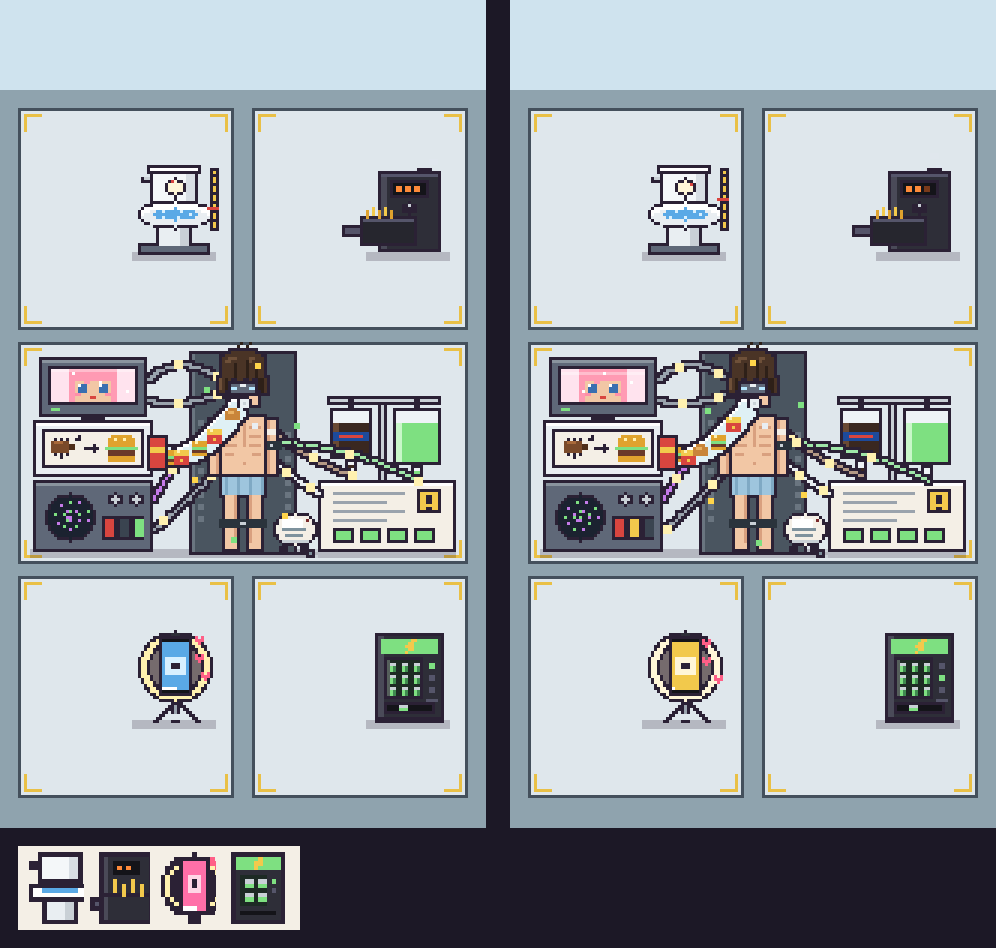
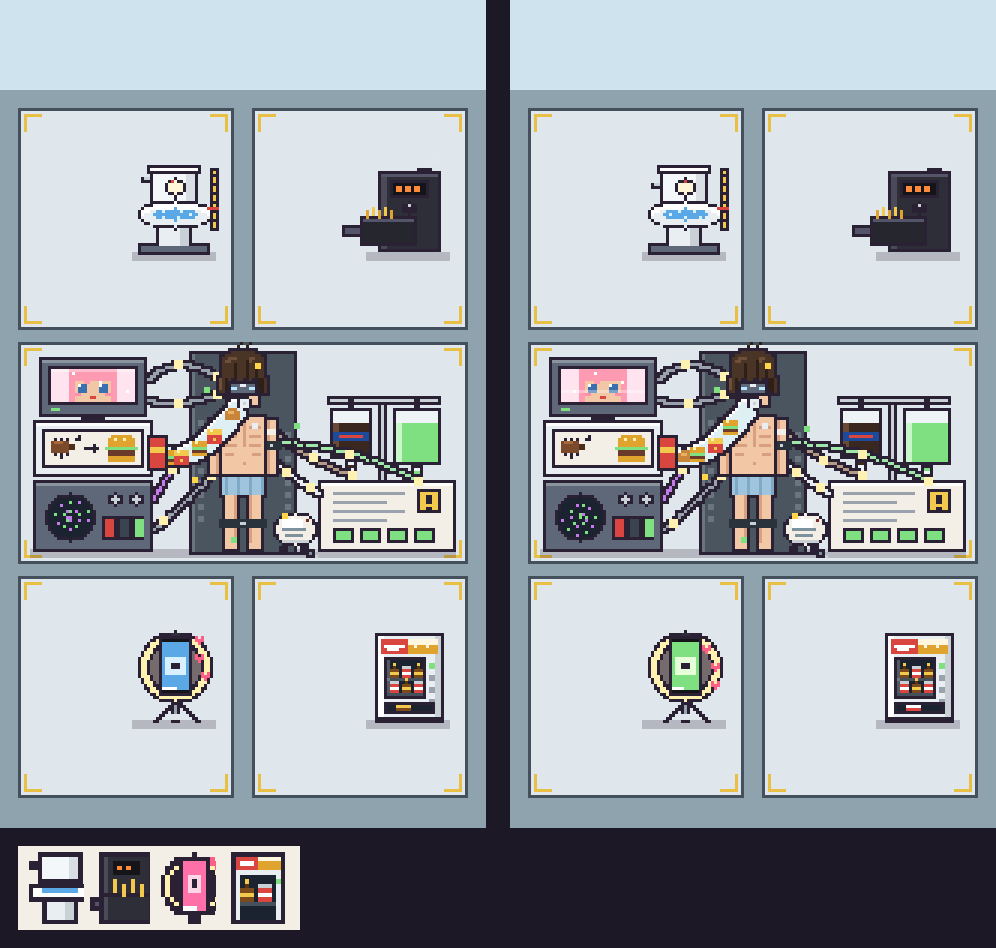
Цех 10: автомат с пивом и колой вместо энергетиков, станки одобрены
Claude-Session: https://claude.ai/code/session_01RvwvQkAzJYbf6wXBsf4mKj

diff --git a/drafts/workshop-10.js b/drafts/workshop-10.js
@@ -2,7 +2,7 @@
 // Цены и скорости станков не выбраны: value: 1 и desc: 'x' — заглушки. Цех 10 — индекс цеха 9.
 // Особенность цеха: в центре Эталон на широком месте (два столбца). Сотрудник ему не нужен,
 // своих скорости и цены нет (0), доход растёт от числа работающих соседей (максимум 4).
-// Статус: Эталон одобрен. Четыре станка вокруг нарисованы и ждут одобрения, сцена цеха ещё не нарисована.
+// Статус: Эталон и четыре станка вокруг него нарисованы и одобрены, сцена цеха ещё не нарисована (будет белой).
 
 // ===== LAYOUTS: после пепси =====
     // a pair on top, the etalon across both columns in the middle (anchored at column 0), a pair below
@@ -19,15 +19,15 @@
     toilet: { loc: 9, name: 'Унитаз', short: 'УНИТАЗ', rate: 0.5, value: 1, max: 1, desc: 'x' },
     airfryer: { loc: 9, name: 'Аэрогриль', short: 'АЭРОГРИЛЬ', rate: 0.5, value: 1, max: 1, desc: 'x' },
     shorts: { loc: 9, name: 'Студия коротких видео', short: 'ШОРТСЫ', rate: 0.8, value: 1, max: 1, desc: 'x' },
-    energy: { loc: 9, name: 'Автомат энергетиков', short: 'ЭНЕРГЕТИКИ', rate: 0.6, value: 1, max: 1, desc: 'x' },
+    drinks: { loc: 9, name: 'Автомат с пивом и колой', short: 'ПИВО-КОЛА', rate: 0.6, value: 1, max: 1, desc: 'x' },
 
-// ===== ICON_DRAW: иконки карт станков 16×16 (ждут одобрения) =====
+// ===== ICON_DRAW: иконки карт станков 16×16 =====
     toilet: (r, d) => { r(3, 0, 10, 7, K); r(4, 1, 8, 5, '#f4f7f9'); r(10, 1, 2, 5, '#d8dee4'); r(1, 2, 2, 2, K); r(1, 7, 14, 4, K); r(2, 8, 12, 2, '#ffffff'); r(4, 8, 8, 1, '#5aa9e6'); r(4, 11, 8, 5, K); r(5, 11, 6, 4, '#e9eef2'); r(9, 11, 2, 4, '#c9d0d6'); r(14, 0, 2, 9, '#f2c94c'); r(14, 4, 2, 1, '#d9453f'); },
     airfryer: (r, d) => { r(2, 0, 12, 16, K); r(3, 1, 10, 14, '#2e2e38'); r(3, 1, 1, 14, '#4a4a58'); r(5, 2, 6, 3, '#141419'); r(6, 3, 1, 1, '#ff8a3a'); r(8, 3, 1, 1, '#ff8a3a'); r(3, 9, 10, 1, K); r(0, 10, 3, 3, K); r(1, 11, 1, 1, '#55556a'); for (let k = 0; k < 4; k++) r(5 + k * 2, 6 + (k % 2), 1, 3, '#f2c94c'); },
     shorts: (r, d) => { d(8, 7, 7, K); d(8, 7, 6, '#fff1b0'); d(8, 7, 5, K); r(5, 1, 7, 13, K); r(6, 2, 5, 11, '#ff6fa8'); r(7, 5, 3, 4, '#ffd6e6'); r(8, 6, 1, 2, K); r(6, 12, 3, 1, '#ffffff'); r(7, 14, 3, 2, K); r(12, 1, 1, 1, '#ff5f87'); r(14, 1, 1, 1, '#ff5f87'); r(12, 2, 3, 1, '#ff5f87'); r(13, 3, 1, 1, '#ff5f87'); },
-    energy: (r, d) => { r(2, 0, 12, 16, K); r(3, 1, 10, 14, '#2e2e38'); r(3, 1, 10, 3, '#7ee081'); r(8, 1, 1, 1, '#f2c94c'); r(7, 2, 2, 1, '#f2c94c'); r(7, 3, 1, 1, '#f2c94c'); r(4, 5, 6, 7, '#1d2a24'); for (let k = 0; k < 2; k++) for (let j = 0; j < 2; j++) { r(5 + k * 3, 6 + j * 3, 2, 2, '#7ee081'); r(5 + k * 3, 6 + j * 3, 2, 1, '#c9d0d6'); } r(11, 6, 1, 1, '#7ee081'); r(11, 8, 1, 1, '#55556a'); r(4, 13, 8, 1, '#141419'); },
+    drinks: (r, d) => { r(2, 0, 12, 16, K); r(3, 1, 10, 14, '#e9eef2'); r(3, 1, 5, 3, '#d9453f'); r(4, 2, 3, 1, '#ffffff'); r(8, 1, 5, 3, '#e0a32e'); r(8, 1, 5, 1, '#fff6e0'); r(4, 5, 8, 8, '#1b2230'); r(5, 7, 1, 1, '#5a3410'); r(5, 6, 1, 1, '#f2c94c'); r(4, 8, 3, 3, '#7a4a1a'); r(4, 9, 3, 1, '#f2c94c'); r(8, 7, 3, 1, '#c9d0d6'); r(8, 8, 3, 3, '#d9453f'); r(8, 9, 3, 1, '#ffffff'); r(4, 11, 8, 1, '#44505c'); r(12, 6, 1, 1, '#7ee081'); r(4, 13, 8, 2, '#1b2230'); },
 
-// ===== machine(): ветки перед 'sew' (ждут одобрения) =====
+// ===== machine(): ветки перед 'sew' =====
     } else if (type === 'toilet') {
       // a toilet on the calibration stand: the flush lever kicks, the water swirls, a gauge and a ruler check the level
       const ell = (ex, ey, rx, ry, col) => { for (let dy = -ry; dy <= ry; dy++) { const w = Math.round(rx * Math.sqrt(1 - (dy / ry) ** 2)); R(ex - w, ey + dy, w * 2 + 1, 1, col); } };
@@ -71,21 +71,24 @@
       R(x + 12, y + 3, 9, 1, '#141419'); R(x + 12, y + 20, 9, 1, '#141419'); R(x + 12, y + 19, Math.round(sw * 9), 1, '#ffffff');
       for (let k = 0; k < 3; k++) { const s = (t * 0.7 + k / 3) % 1, hx = x + 24 + Math.round(Math.sin(s * 6 + k) * 2), hy = y + 18 - Math.round(s * 18); R(hx, hy, 1, 1, '#ff5f87'); R(hx + 2, hy, 1, 1, '#ff5f87'); R(hx, hy + 1, 3, 1, '#ff5f87'); R(hx + 1, hy + 2, 1, 1, '#ff5f87'); }
       R(x + 13, y + 1, 7, 2, K); R(x + 15, y + 1, 3, 1, '#2e2e38');
-    } else if (type === 'energy') {
-      // the energy drink machine: a lit fridge of green cans, a can drops into the tray and the bolt sign buzzes
-      R(x + 5, y + 1, 23, 29, K); R(x + 6, y + 2, 21, 27, '#2e2e38'); R(x + 6, y + 2, 2, 27, '#4a4a58');
-      const buzz = (t % 1.7) < 0.12;
-      R(x + 7, y + 3, 19, 5, buzz ? '#3f8a4f' : '#7ee081');
-      for (const [a, b, w] of [[17, 3, 2], [16, 4, 2], [15, 5, 3], [16, 6, 2], [15, 7, 1]]) R(x + a, y + b, w, 1, buzz ? '#c9a23a' : '#f2c94c');
-      R(x + 8, y + 9, 13, 14, K); R(x + 9, y + 10, 11, 12, '#1d2a24');
-      for (let r = 0; r < 3; r++) for (let k = 0; k < 3; k++) { const cxk = x + 10 + k * 4, cyk = y + 11 + r * 4; R(cxk, cyk, 2, 3, '#3f8a4f'); R(cxk, cyk, 1, 3, '#7ee081'); R(cxk, cyk, 2, 1, '#c9d0d6'); }
-      R(x + 9, y + 10, 1, 12, 'rgba(255,255,255,.25)');
-      for (let k = 0; k < 3; k++) R(x + 23, y + 11 + k * 4, 2, 2, k === Math.floor(t * 3) % 3 ? '#7ee081' : '#55556a');
-      R(x + 22, y + 23, 4, 1, '#55556a');
-      R(x + 8, y + 24, 17, 4, K); R(x + 9, y + 25, 15, 2, '#141419');
-      const dr = (t * 0.7) % 1;
-      if (dr < 0.4) { const cy2 = y + 12 + Math.round(dr / 0.4 * 13); if (cy2 < y + 22) R(x + 14, cy2, 2, 3, '#7ee081'); else { R(x + 13, y + 25, 3, 2, '#7ee081'); R(x + 13, y + 25, 3, 1, '#c9d0d6'); } }
-      else { R(x + 13, y + 25, 3, 2, '#7ee081'); R(x + 13, y + 25, 3, 1, '#c9d0d6'); }
+    } else if (type === 'drinks') {
+      // a fridge of beer and cola: the sign is half cola red, half beer gold with foam, a drink drops into the tray
+      R(x + 5, y + 1, 23, 29, K); R(x + 6, y + 2, 21, 27, '#e9eef2'); R(x + 6, y + 2, 2, 27, '#ffffff'); R(x + 25, y + 2, 2, 27, '#c9d0d6');
+      const buzz = (t % 2.3) < 0.12;
+      R(x + 7, y + 3, 9, 5, buzz ? '#9a3a3a' : '#d9453f'); R(x + 8, y + 5, 7, 1, '#ffffff'); R(x + 9, y + 6, 4, 1, '#ffffff');
+      R(x + 16, y + 3, 10, 5, buzz ? '#a87a2a' : '#e0a32e'); R(x + 16, y + 3, 10, 2, '#fff6e0'); R(x + 18, y + 5, 1, 1, '#fff6e0'); R(x + 22, y + 5, 1, 1, '#fff6e0');
+      R(x + 8, y + 9, 14, 14, K); R(x + 9, y + 10, 12, 12, '#1b2230');
+      // b is the bottom row of the drink: a beer is a brown bottle with a gold label, a cola a red can with a white band
+      const beer = (bx, b) => { R(bx + 1, b - 4, 1, 1, '#f2c94c'); R(bx + 1, b - 3, 1, 1, '#5a3410'); R(bx, b - 2, 3, 3, '#7a4a1a'); R(bx, b - 1, 3, 1, '#f2c94c'); };
+      const cola = (bx, b) => { R(bx, b - 3, 3, 1, '#c9d0d6'); R(bx, b - 2, 3, 3, '#d9453f'); R(bx, b - 1, 3, 1, '#ffffff'); };
+      for (let r = 0; r < 2; r++) { for (let k = 0; k < 3; k++) ((r + k) % 2 ? cola : beer)(x + 10 + k * 4, y + 15 + r * 5); R(x + 9, y + 16 + r * 5, 12, 1, '#44505c'); }
+      R(x + 9, y + 10, 1, 11, 'rgba(255,255,255,.25)');
+      for (let k = 0; k < 3; k++) R(x + 23, y + 11 + k * 4, 2, 2, k === Math.floor(t * 3) % 3 ? '#7ee081' : '#9aa3ad');
+      R(x + 23, y + 23, 2, 1, '#9aa3ad');
+      R(x + 8, y + 24, 17, 4, K); R(x + 9, y + 25, 15, 2, '#1b2230');
+      const dr = (t * 0.7) % 1, which = Math.floor(t * 0.7) % 2 ? cola : beer, fy = y + 13 + Math.round(dr / 0.4 * 12);
+      if (dr < 0.4 && fy < y + 22) which(x + 14, fy);
+      else { R(x + 12, y + 25, 5, 2, which === cola ? '#d9453f' : '#7a4a1a'); R(x + 12, y + 25, 5, 1, which === cola ? '#ffffff' : '#f2c94c'); }
       R(x + 5, y + 29, 23, 2, K);
 
 // ===== etalon(): широкий станок, рядом с furnace() и extractor() (одобрен) =====

diff --git a/docs/workshops.md b/docs/workshops.md
@@ -93,7 +93,7 @@
 
 ## План: цеха 6–10 (согласовано, ещё не сделано)
 
-Спрайты и сцены цехов 6 и 7 нарисованы и одобрены: код лежит в `drafts/workshops-6-7.js`, превью в `drafts/`. Цех 8 нарисован и ждёт одобрения: `drafts/workshop-8.js` (там же иконки карт станков), превью `drafts/manga-preview.png`. Цех 9 нарисован и одобрен: `drafts/workshop-9.js`, превью `drafts/pepsi-preview.png`. Цех 10: `drafts/workshop-10.js`, Эталон одобрен (превью `drafts/etalon-preview.png`), четыре станка нарисованы и ждут одобрения (`drafts/workshop-10-preview.png`), сцена ещё не нарисована. Тема цеха 9 поменялась: вместо юмологического оружия там выращивают живых бутылок пепси. Цены и скорости станков ещё не выбраны, их подбирать ботом. Вкладки: 10 цехов в ряд не влезут, предложено показывать открытые цеха и один следующий.
+Спрайты и сцены цехов 6 и 7 нарисованы и одобрены: код лежит в `drafts/workshops-6-7.js`, превью в `drafts/`. Цех 8 нарисован и ждёт одобрения: `drafts/workshop-8.js` (там же иконки карт станков), превью `drafts/manga-preview.png`. Цех 9 нарисован и одобрен: `drafts/workshop-9.js`, превью `drafts/pepsi-preview.png`. Цех 10: `drafts/workshop-10.js`, Эталон и четыре станка нарисованы и одобрены (превью `drafts/etalon-preview.png` и `drafts/workshop-10-preview.png`), сцена ещё не нарисована, она будет белой. Тема цеха 9 поменялась: вместо юмологического оружия там выращивают живых бутылок пепси. Цены и скорости станков ещё не выбраны, их подбирать ботом. Вкладки: 10 цехов в ряд не влезут, предложено показывать открытые цеха и один следующий.
 
 | Цех | Цена | Места | Станки | Особенность |
 |---|---|---|---|---|
@@ -101,7 +101,7 @@
 | 7: голуби | 1,5T | 5 крестом 3×3 («голубь с раскрытыми крыльями»), центр касается всех | Кормушка (2), Полоса препятствий (2), Почтовая голубятня (1) | «Голубиная почта»: каждый работающий станок цеха +15% к частоте посылок |
 | 8: японская манга | 100T | 6: ряд из 4 и одно место под 2-м (соседи); верхнее место над стыком 2-го и 3-го стоит отдельно с зазором, ни с кем не соседствует | Стол набросков (3), Тушевальня (2), Печатный пресс (1) | «Онгоинг»: цена +10% за каждую смену подряд, когда цех работал; смена простоя сбрасывает |
 | 9: живые бутылки пепси | 8Qa | 4: столбик из трёх мест слева, справа Экстрактор на всю высоту трёх мест | Экстрактор пепси (1), Чан брожения (1), Газировочная помпа (1), Инкубатор (1) | Экстрактор открывается вместе с цехом и соседствует сразу со всеми тремя местами слева |
-| 10: калибровка туалетов и аэрогрилей | 500Qa | 5: пара сверху, в центре Эталон на месте шириной в два столбца, пара снизу; Эталон касается всех четырёх | Эталон (1, открывается с цехом), Унитаз (1), Аэрогриль (1), Студия коротких видео (1), Автомат энергетиков (1, предложен, ждёт одобрения) | Эталону не нужен сотрудник, своих скорости и цены у него нет: доход растёт от числа работающих соседей (до 4), формулу подбирать ботом. «Это одно и то же»: унитаз рядом с аэрогрилем, у обоих сила ×2 |
+| 10: калибровка туалетов и аэрогрилей | 500Qa | 5: пара сверху, в центре Эталон на месте шириной в два столбца, пара снизу; Эталон касается всех четырёх | Эталон (1, открывается с цехом), Унитаз (1), Аэрогриль (1), Студия коротких видео (1), Автомат с пивом и колой (1) | Эталону не нужен сотрудник, своих скорости и цены у него нет: доход растёт от числа работающих соседей (до 4), формулу подбирать ботом. «Это одно и то же»: унитаз рядом с аэрогрилем, у обоих сила ×2 |
 
 **Сцена пиццы:** кремовая стена с полосой цветов флага Италии, полка с томатами, меловое меню, зелёная вывеска. Пол — крупная красно-кремовая клетка 24 px. Декор: оливковое дерево и поленница с топором, ящик томатов, корзина грибов, качающаяся башня коробок с паром, кремово-красная веспа доставки с флажком и коробом, столик со свечой в кьянти и рыжий кот в поварском колпаке, который тянет кусок пиццы (сыр тянется), мешки муки, музыкальный автомат с нотами, ведро со шваброй и табличка «мокрый пол».
 
